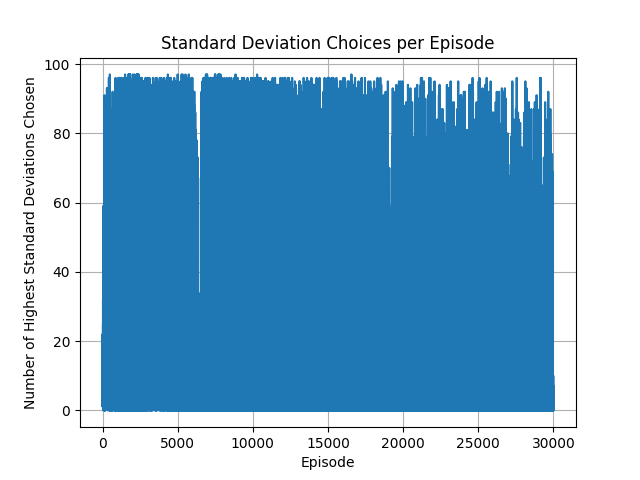
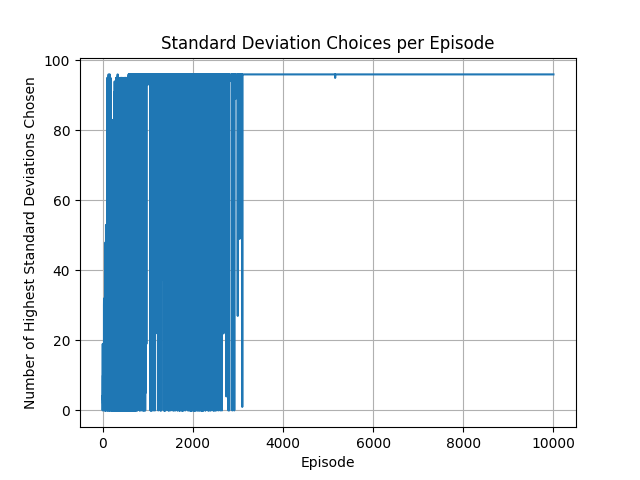
successfully picks worst seed

diff --git a/SULI/src/simulation.py b/SULI/src/simulation.py
@@ -13,6 +13,7 @@ import numpy as np
 from datetime import datetime
 from packaging import version
 from tensorflow import keras
+from tensorflow.python.keras.utils import losses_utils
 
 
 def stdDeviaiton(array):
@@ -48,8 +49,11 @@ class CustomEnvironment(Environment):
     trdHighest_arr = np.array([])
     # allActions = np.array([])
     allEpisodes = np.array([])
+    expected = np.array([])
+    actual = np.array([])
+    losses = np.array([])
 
-    for i in range(30000):
+    for i in range(10000):
         allEpisodes = np.append(allEpisodes, i)
 
 
@@ -155,6 +159,8 @@ class CustomEnvironment(Environment):
         self.trdHighest = 0
         self.agent_pos = self.startingPoint
         self.worstSeed = randint(0, self.SAMPLES - 1)
+        CustomEnvironment.actual = np.array([])
+        CustomEnvironment.expected = np.array([])
         for i in range(self.SAMPLES):
             for j in range(self.TRIALS):
                 if j < self.startingPoint:
@@ -180,6 +186,7 @@ class CustomEnvironment(Environment):
         maxStdDev = []
         reward = 0
         if (actions >= 0 and actions < self.SAMPLES):
+
             # CustomEnvironment.allActions = np.append(CustomEnvironment.allActions, actions)
             for i in range(self.SAMPLES):
                 self.stdDev[i] = stdDeviaiton(array=self.GRID[i])
@@ -192,6 +199,8 @@ class CustomEnvironment(Environment):
             # elif actions == self.shape[1][self.agent_pos - 2]:
             #     self.reward -= 1
             #     self.skippedRepeat += 1
+            CustomEnvironment.expected = np.append(CustomEnvironment.expected, maxStdDev[0])
+            CustomEnvironment.actual = np.append(CustomEnvironment.actual, actions)
             if actions == maxStdDev[0]:
                 self.reward += 1
                 self.highest += 1
@@ -212,7 +221,7 @@ class CustomEnvironment(Environment):
             if actions == self.worstSeed:
                 self.GRID[actions][self.agent_pos] = randint(0, 1000000)
             else:
-                self.GRID[actions][self.agent_pos] = 1
+                self.GRID[actions][self.agent_pos] = randint(0, 10000)
             self.minSampling[actions] += 1
             self.agent_pos += 1
             print(list(self.stdDev.values()))
@@ -240,12 +249,23 @@ class CustomEnvironment(Environment):
             CustomEnvironment.trdHighest_arr = np.append(CustomEnvironment.trdHighest_arr, self.trdHighest)
             # reward += 1
             self.sum += 1
-            if self.sum > 20000:
+            if self.sum > 6000:
                 # mostChosen = nlargest(3, self.minSampling, key=self.minSampling.get)
                 # CustomEnvironment.firstCount += self.minSampling[mostChosen[0]]
                 # CustomEnvironment.secondCount += self.minSampling[mostChosen[1]]
                 # CustomEnvironment.thirdCount += self.minSampling[mostChosen[2]]
                 CustomEnvironment.sum += reward
+            # bce = tf.keras.losses.BinaryCrossentropy()
+            # print(bce(CustomEnvironment.actual, CustomEnvironment.expected).numpy())
+            # CustomEnvironment.losses = np.append(CustomEnvironment.losses, bce(CustomEnvironment.actual, CustomEnvironment.expected))
+
+            # y_true = [[0, 1], [0, 0]]
+            # y_pred = [[0.6, 0.4], [0.4, 0.6]]
+            loss = tf.keras.losses.binary_crossentropy(CustomEnvironment.actual, CustomEnvironment.expected)
+            # assert loss.shape == (2,)
+            print("LOSSSSSS", type(loss))
+            # CustomEnvironment.losses = np.append(CustomEnvironment.losses, loss)
+
             print(self.minSampling)
         print("check", self.shape[1])
 
@@ -260,7 +280,7 @@ def runEnv():
     agent = Agent.create(agent='a2c', environment=environment, batch_size=10, learning_rate=1e-3)
 
     # Train for 200 episodes
-    for _ in range(20000):
+    for _ in range(6000):
         states = environment.reset()
         terminal = False
         while CustomEnvironment.extraCounter != 100:
@@ -272,7 +292,7 @@ def runEnv():
 
     # Evaluate for 100 episodes
     sum_rewards = 0.0
-    for _ in range(10000):
+    for _ in range(4000):
         states = environment.reset()
         internals = agent.initial_internals()
         terminal = False
@@ -285,10 +305,28 @@ def runEnv():
     # print(CustomEnvironment.firstCount, ",", CustomEnvironment.secondCount, ",", CustomEnvironment.thirdCount)
     print(CustomEnvironment.sum)
 
+
     # Close agent and environment
     agent.close()
     environment.close()
 
+
+def lossPlot():
+    # Data for plotting
+    x = CustomEnvironment.losses
+    s = CustomEnvironment.allEpisodes
+
+
+    fig, ax = plt.subplots()
+    ax.plot(s, x)
+
+
+    ax.set(xlabel='Episode', ylabel='Loss',
+           title='Loss per Episode')
+    ax.grid()
+
+    fig.savefig("loss.png")
+    plt.show()
 
 
 def makePlot1():
@@ -347,7 +385,11 @@ if __name__ == "__main__":
     makePlot1()
     makePlot2()
     makePlot3()
-    logdir = "logs/scalars/" + datetime.now().strftime("%Y%m%d-%H%M%S")
-    tensorboard_callback = keras.callbacks.TensorBoard(log_dir=logdir)
-    with tf.Session() as sess:
-        print(sess.run(runEnv()))
+    lossPlot()
+    # logdir = "logs/scalars/" + datetime.now().strftime("%Y%m%d-%H%M%S")
+    # tensorboard_callback = keras.callbacks.TensorBoard(log_dir=logdir)
+    # with tf.Session() as sess:
+    #     print(sess.run(runEnv()))
+
+
+# lossPlot()

diff --git a/SULI/src/tensorForceEnv.py b/SULI/src/tensorForceEnv.py
@@ -8,6 +8,7 @@ from tensorforce.execution import Runner
 from heapq import nlargest
 import matplotlib.pyplot as plt
 import numpy as np
+from tensorflow.python.keras.utils import losses_utils
 
 
 def stdDeviaiton(array):
@@ -262,6 +263,8 @@ def runEnv():
     # print('Mean episode reward:', sum_rewards / 100)
     # print(CustomEnvironment.firstCount, ",", CustomEnvironment.secondCount, ",", CustomEnvironment.thirdCount)
     print(CustomEnvironment.sum)
+
+
 
     # Close agent and environment
     agent.close()
